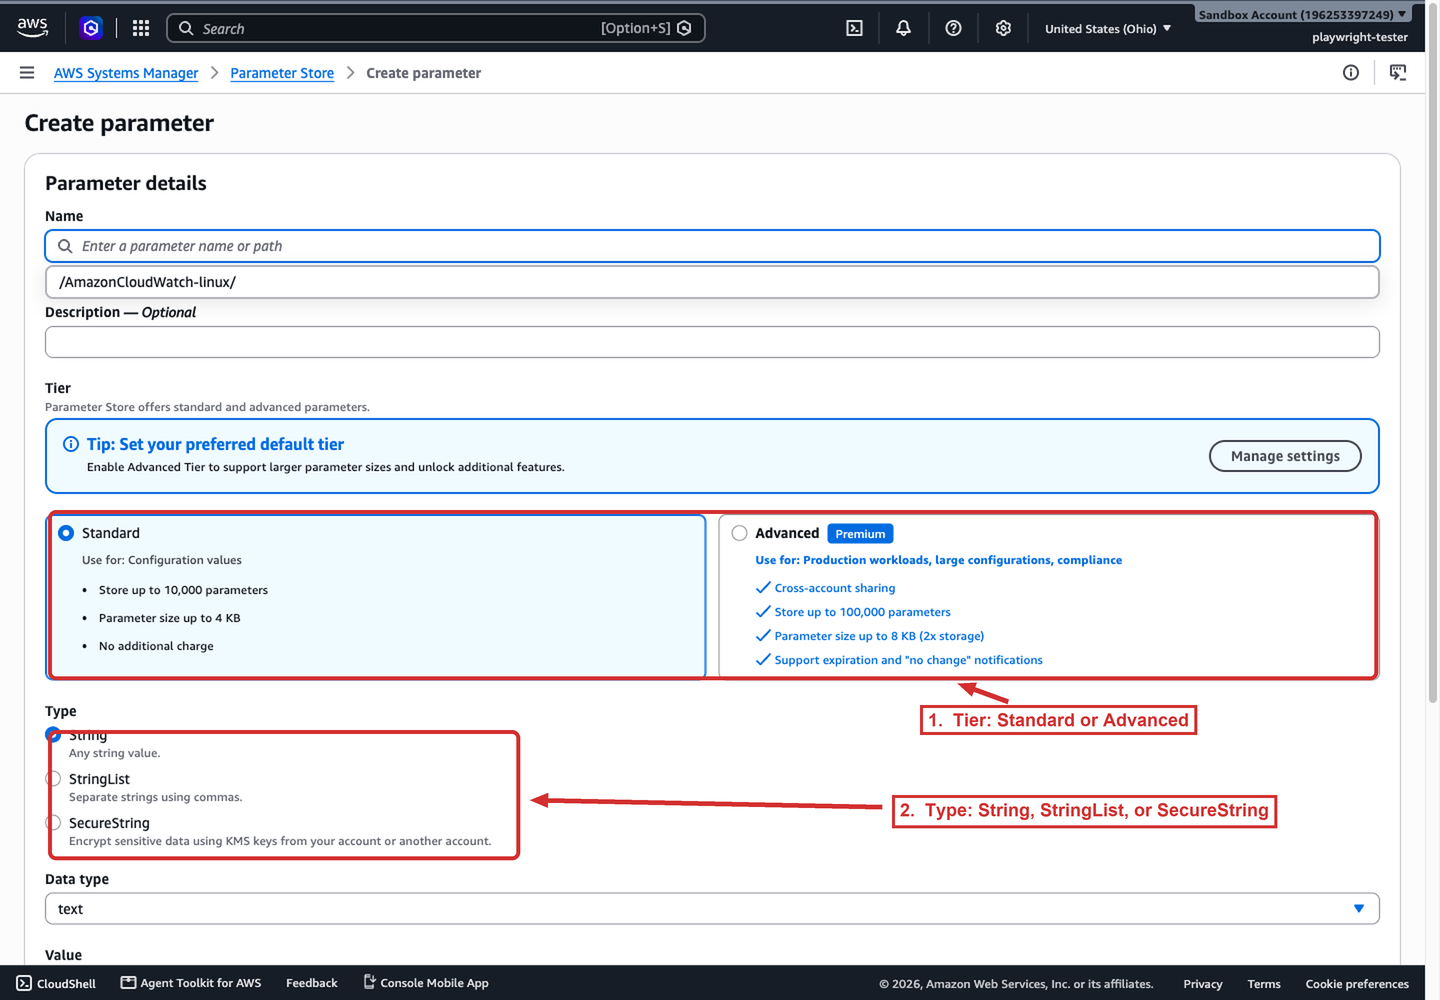
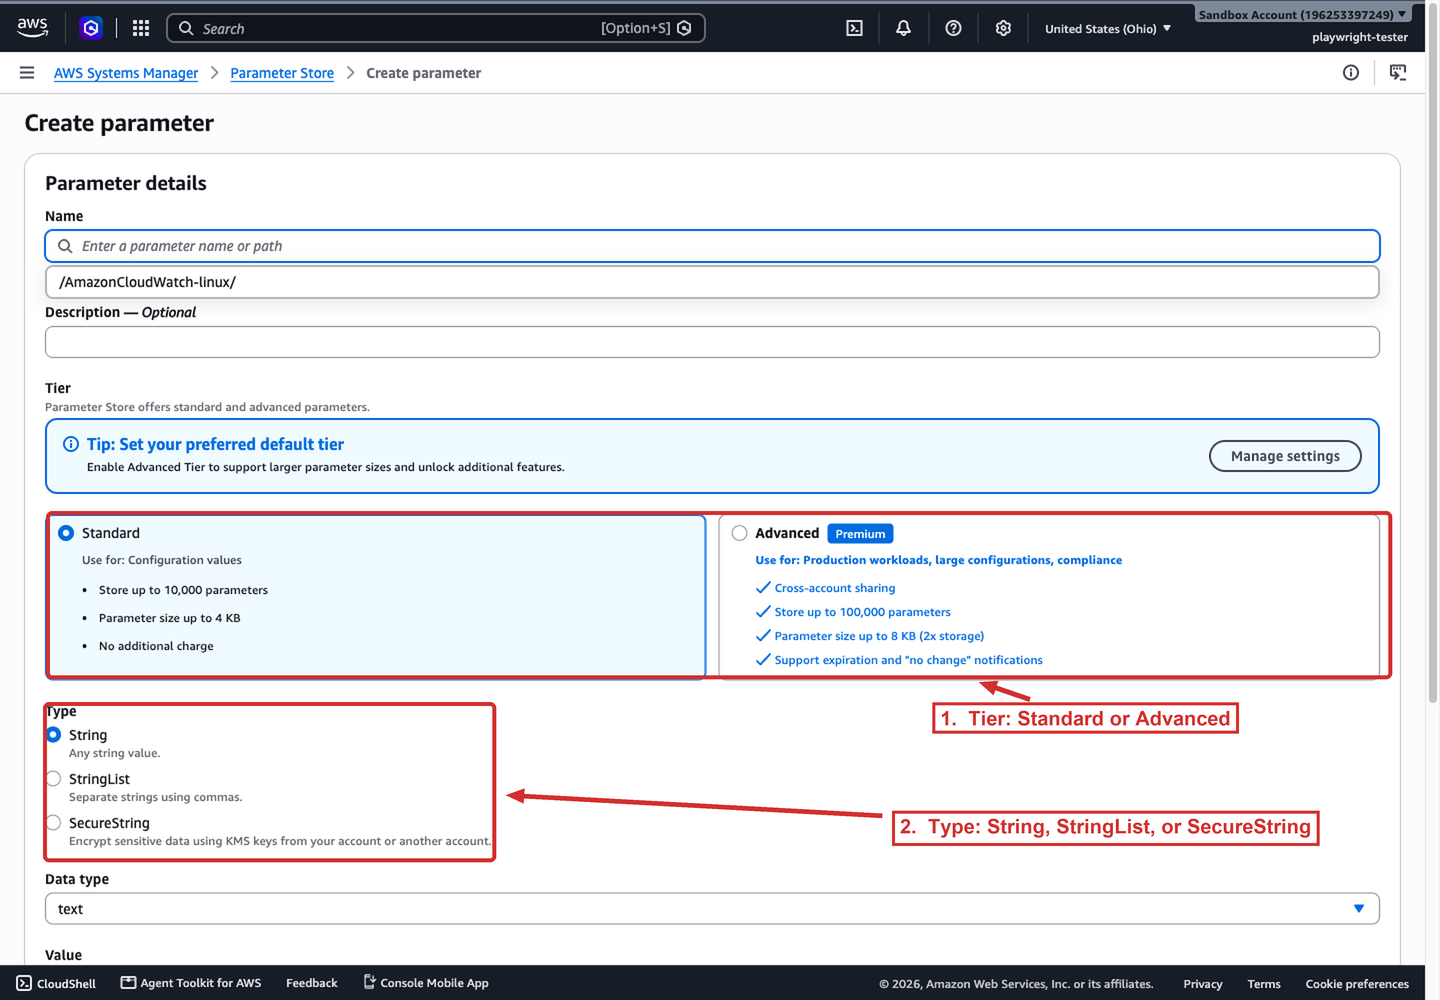
docs: fix parameter Store create-form type highlight
Widen the item 2 highlight so it frames the Type section header and all three options (String, StringList, SecureString) instead of cutting the header and slicing the String row. Update the caption to reference the numbered labels.

Changed region(s): [[0.0312, 0.496, 0.9688, 0.868], [0.4688, 0.775, 0.9375, 0.868], [0.0312, 0.496, 0.0625, 0.527]]

diff --git a/02-services/10-management-governance/15-systems-manager/07-parameter-store.md b/02-services/10-management-governance/15-systems-manager/07-parameter-store.md
@@ -49,7 +49,7 @@ The Create parameter form makes the tier choice explicit by listing what each ti
 
 ![Create parameter form showing the Standard and Advanced tier cards and the three parameter types](../../../assets/images/screenshots/ssm/03-paramstore-create-tier-type.png)
 
-*The Create parameter form. The Standard card lists 10,000 parameters, 4 KB values, and no additional charge; the Advanced card lists cross-account sharing, 100,000 parameters, 8 KB values, and expiration and no-change notifications. The Type section below chooses String, StringList, or SecureString, which is also where a value becomes encrypted.*
+*The Create parameter form. The tier cards (1) set the tier: the **Standard** card lists 10,000 parameters, 4 KB values, and no additional charge, while the **Advanced** card lists cross-account sharing, 100,000 parameters, 8 KB values, and expiration and no-change notifications. The **Type** section (2) chooses `String`, `StringList`, or `SecureString`, which is also where a value becomes encrypted.*
 
 ## Parameter policies
 
